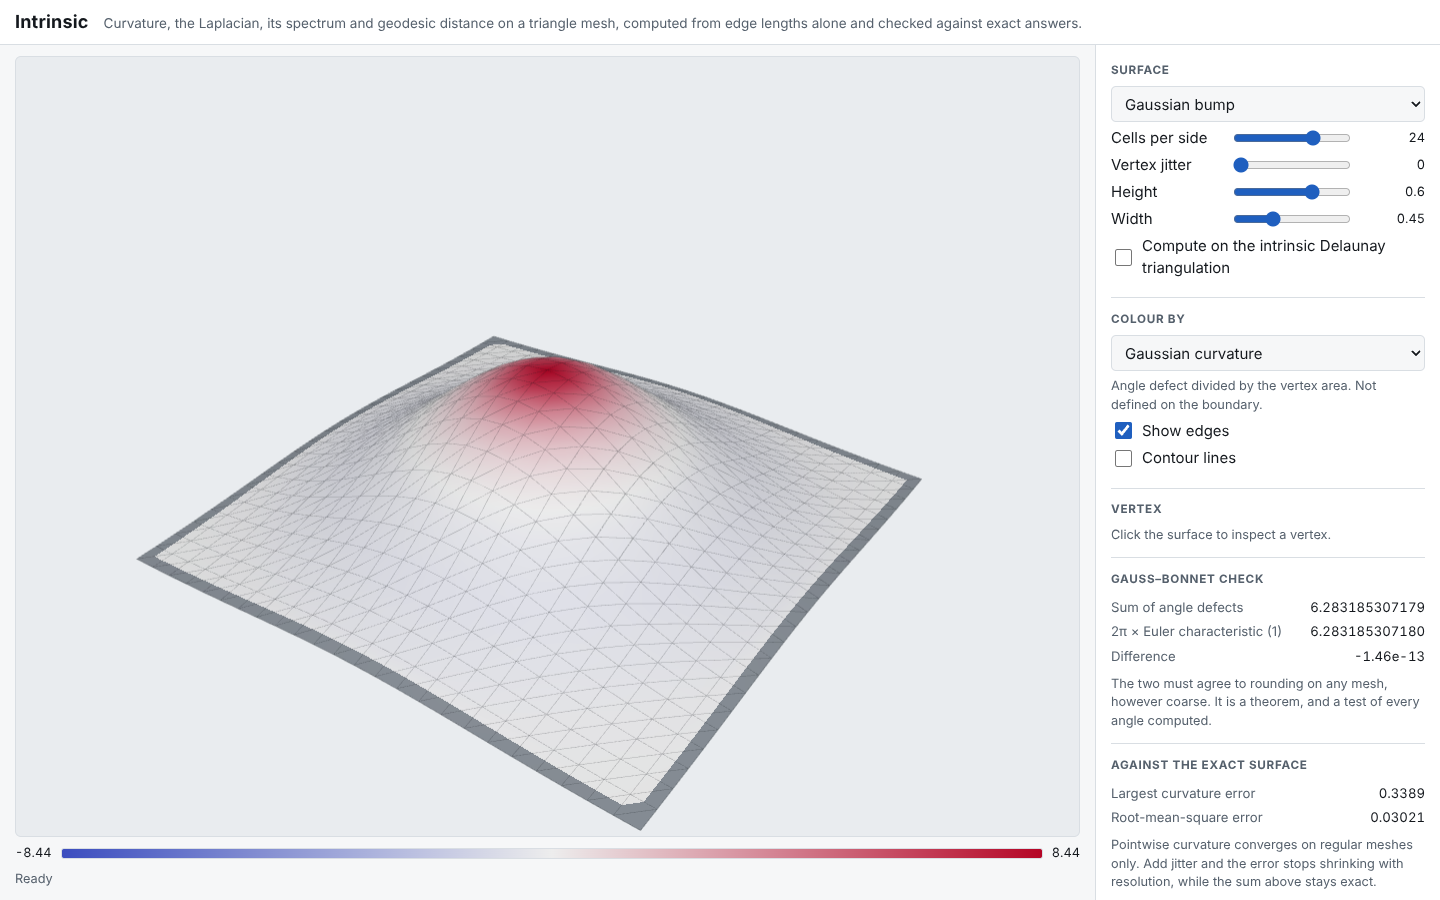
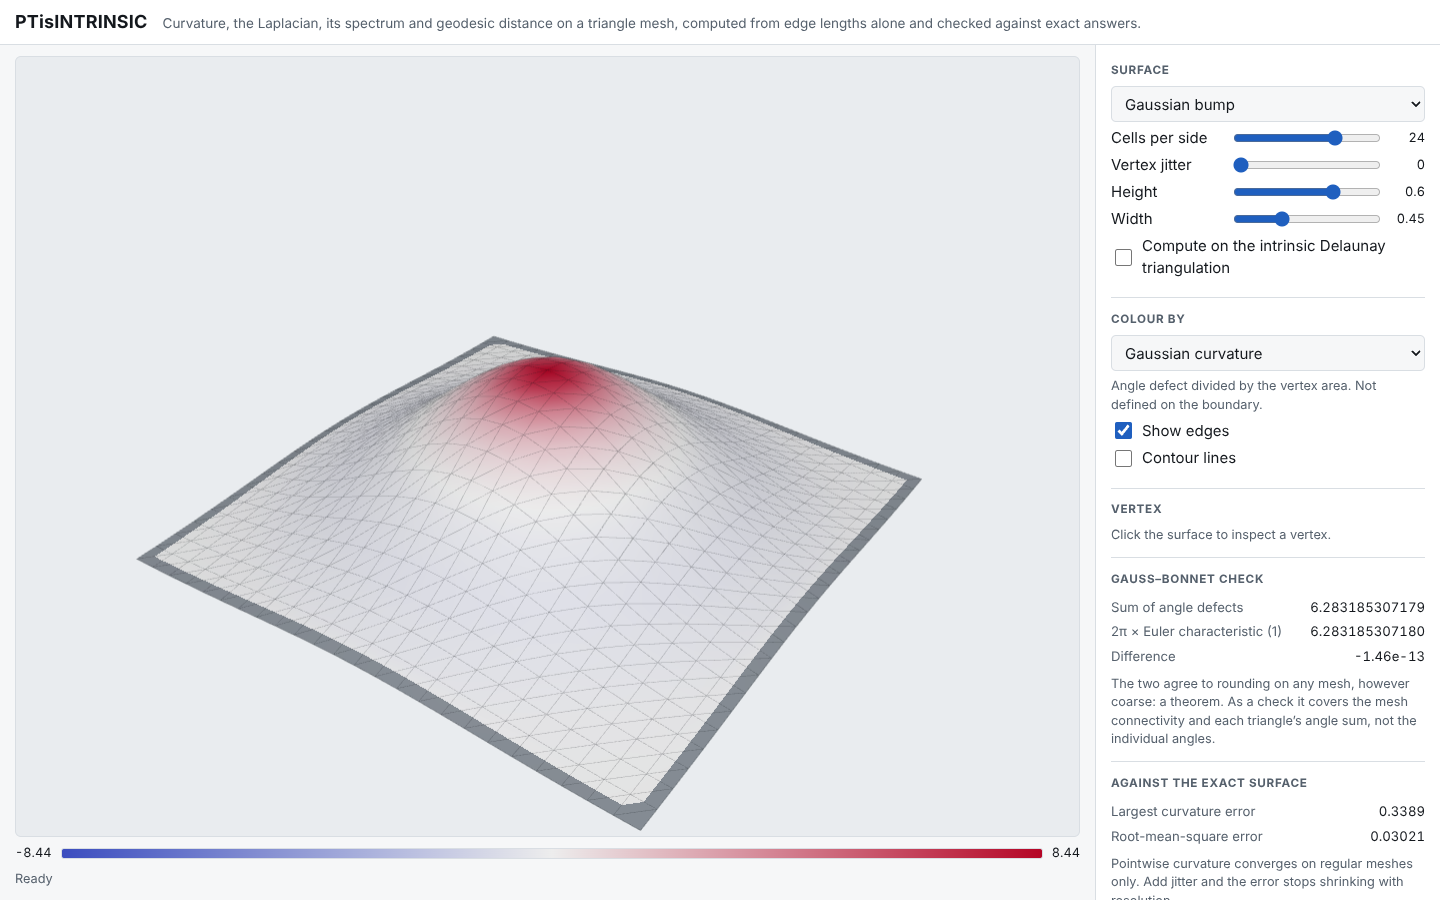
Rename to PTisINTRINSIC and sign as PTisDEV
The project follows the naming of the author's other repositories,
PTis followed by what the program does: intrinsic geometry, computed
from edge lengths alone. Package ptisintrinsic; repository URLs assume
github.com/ptxxdxxd/PTisINTRINSIC.

The author's stamp, a small ASCII skull beside PTisDEV, closes the
README and the app's panel. It lives in src/app/signature.ts; a test
keeps the README copy identical and keeps it out of exported files.
NOTICE names the copyright holder, as the Apache licence expects.

Screenshots regenerated. The product name in docstrings and the export
titles follows the rename; paper titles and the term "intrinsic
geometry" do not change.

Claude-Session: https://claude.ai/code/session_018DZH5v2KzWCQaHqtZ7aifh

diff --git a/src/app/App.tsx b/src/app/App.tsx
@@ -6,6 +6,7 @@ import { FIELDS, contourStep, fieldRange, type FieldId } from './fields.ts';
 import { download, formatNumber } from './format.ts';
 import { PRESETS, type SpectrumData, type SurfaceSpec, type Triangulation } from './model.ts';
 import { Inspector, Readouts, SpectrumPanel, SurfaceControls } from './Panels.tsx';
+import { AUTHOR, STAMP } from './signature.ts';
 import type { Built } from './protocol.ts';
 
 interface Job {
@@ -155,12 +156,12 @@ export function App() {
   };
   // Named after the surface that was built, which lags the controls while a new one computes.
   const shown = result?.job.spec.kind ?? job.spec.kind;
-  const title = `Intrinsic: ${PRESETS[shown].label}, ${built?.summary.vertices ?? 0} vertices`;
+  const title = `PTisINTRINSIC: ${PRESETS[shown].label}, ${built?.summary.vertices ?? 0} vertices`;
 
   return (
     <div className="app">
       <header className="masthead">
-        <h1>Intrinsic</h1>
+        <h1>PTisINTRINSIC</h1>
         <p>
           Curvature, the Laplacian, its spectrum and geodesic distance on a triangle mesh, computed
           from edge lengths alone and checked against exact answers.
@@ -366,6 +367,11 @@ export function App() {
             SciPy and mpmath; the repository says which is checked against what, and how closely.
           </p>
         </section>
+
+        <footer className="signature">
+          <pre aria-hidden="true">{STAMP}</pre>
+          <span className="visually-hidden">Made by {AUTHOR}</span>
+        </footer>
       </aside>
     </div>
   );

diff --git a/scripts/export-fixtures.ts b/scripts/export-fixtures.ts
@@ -1,5 +1,5 @@
 /**
- * Writes oracle/fixtures/*.json: meshes and Intrinsic's results on them, for
+ * Writes oracle/fixtures/*.json: meshes and PTisINTRINSIC's results on them, for
  * the Python suite to recompute with libigl, potpourri3d, scipy and mpmath.
  *
  * Usage: node scripts/export-fixtures.ts
@@ -93,7 +93,7 @@ function spectrumOf(stiffness: CsrMatrix, mass: Float64Array, count: number) {
   };
 }
 
-/** Random symmetric matrices of assorted sizes, with Intrinsic's eigen-decomposition. */
+/** Random symmetric matrices of assorted sizes, with PTisINTRINSIC's eigen-decomposition. */
 function symmetricMatrices() {
   const random = mulberry32(31337);
   return [1, 2, 3, 5, 10, 20, 40, 80, 150].map((n) => {
@@ -306,8 +306,8 @@ for (const [name, s] of [
     { name: 'geodesic_distance', values: new HeatMethod(s.mesh, s.lengths).distance([3]) },
   ];
   const mesh = { positions: s.positions, faces: s.mesh.halfedgeVertex };
-  writeFileSync(join(exportDirectory, `${name}.vtk`), toVtk(mesh, fields, `Intrinsic ${name}`));
-  writeFileSync(join(exportDirectory, `${name}.obj`), toObj(mesh, `Intrinsic ${name}`));
+  writeFileSync(join(exportDirectory, `${name}.vtk`), toVtk(mesh, fields, `PTisINTRINSIC ${name}`));
+  writeFileSync(join(exportDirectory, `${name}.obj`), toObj(mesh, `PTisINTRINSIC ${name}`));
   writeFileSync(join(exportDirectory, `${name}.csv`), toCsv(mesh, fields));
   writeFileSync(
     join(exportDirectory, `${name}.json`),

diff --git a/tests/app/signature.test.ts b/tests/app/signature.test.ts
@@ -1,0 +1,29 @@
+import { readFileSync } from 'node:fs';
+import { describe, expect, it } from 'vitest';
+import { AUTHOR, STAMP } from '../../src/app/signature.ts';
+import { toCsv, toObj, toVtk } from '../../src/core/index.ts';
+
+const root = new URL('../../', import.meta.url);
+const read = (path: string) => readFileSync(new URL(path, root), 'utf8');
+
+describe('signature', () => {
+  it('ends the README with the same stamp the page shows', () => {
+    expect(STAMP).toContain(AUTHOR);
+    expect(read('README.md').endsWith(`\n\`\`\`text\n${STAMP}\n\`\`\`\n`)).toBe(true);
+  });
+
+  it('names the same author in the package and the NOTICE', () => {
+    const pkg = JSON.parse(read('package.json')) as { author: string; name: string };
+    expect(pkg.author).toBe(AUTHOR);
+    expect(read('NOTICE')).toContain(`Copyright 2026 ${AUTHOR}`);
+  });
+
+  it('stays out of exported files, which are data', () => {
+    const mesh = { positions: [0, 0, 0, 1, 0, 0, 0, 1, 0], faces: [0, 1, 2] };
+    const fields = [{ name: 'f', values: [1, 2, 3] }];
+    for (const text of [toVtk(mesh, fields, 'title'), toObj(mesh, 'title'), toCsv(mesh, fields)]) {
+      expect(text).not.toContain(AUTHOR);
+      expect(text).not.toContain('(o o)');
+    }
+  });
+});

diff --git a/e2e/app.spec.ts b/e2e/app.spec.ts
@@ -105,7 +105,7 @@ test('exports download files with the mesh on screen', async ({ page }) => {
   };
   const vtk = await save('VTK');
   expect(
-    vtk.startsWith('# vtk DataFile Version 3.0\nIntrinsic: Gaussian bump, 625 vertices\n'),
+    vtk.startsWith('# vtk DataFile Version 3.0\nPTisINTRINSIC: Gaussian bump, 625 vertices\n'),
   ).toBe(true);
   expect(vtk).toContain(`POINTS ${vertices} double`);
   expect(vtk).toContain('SCALARS gaussian_curvature double 1');
@@ -132,5 +132,7 @@ test('the page fits its window', async ({ page }) => {
   expect(box.y + box.height).toBeLessThanOrEqual(window.height);
   expect(box.width).toBeGreaterThan(0.6 * window.width - 400);
   expect(box.height).toBeGreaterThan(300);
+  // The author's stamp sits at the end of the panel.
+  await expect(page.locator('footer.signature pre')).toHaveText(/PTisDEV/);
   expect(problems).toEqual([]);
 });

diff --git a/src/core/exporters.ts b/src/core/exporters.ts
@@ -65,7 +65,7 @@ function identifier(name: string): string {
 export function toVtk(mesh: ExportMesh, fields: readonly ExportField[], title: string): string {
   const { n, m } = checked(mesh, fields);
   // The title is the file's second line: one line, at most 256 characters.
-  const header = title.replace(/\s+/g, ' ').trim().slice(0, 255) || 'Intrinsic mesh';
+  const header = title.replace(/\s+/g, ' ').trim().slice(0, 255) || 'Untitled mesh';
   const lines = ['# vtk DataFile Version 3.0', header, 'ASCII', 'DATASET UNSTRUCTURED_GRID'];
   lines.push(`POINTS ${n} double`);
   for (let v = 0; v < n; v++) {

diff --git a/tests/core/exporters.test.ts b/tests/core/exporters.test.ts
@@ -86,7 +86,7 @@ describe('export validation', () => {
     const infinite = [{ name: 'd', values: [0, Infinity, 0, 0] }];
     expect(() => toVtk(mesh, infinite, 't')).toThrow(/contains Infinity/);
     expect(() => toCsv(mesh, infinite)).toThrow(/contains Infinity/);
-    expect(toVtk(mesh, [], '  ').split('\n')[1]).toBe('Intrinsic mesh');
+    expect(toVtk(mesh, [], '  ').split('\n')[1]).toBe('Untitled mesh');
     const zeros = [0, 0, 0, 0];
     expect(() => toCsv(mesh, [{ name: ' ', values: zeros }])).toThrow(/empty or used twice/);
     expect(() =>

diff --git a/src/app/signature.ts b/src/app/signature.ts
@@ -1,0 +1,8 @@
+/**
+ * The author's stamp. It goes where a person signs, the page footer and the
+ * README footer, and never into computed output or exported files. A unit
+ * test keeps the README's copy identical to this one.
+ */
+export const AUTHOR = 'PTisDEV';
+
+export const STAMP = [' .-.', `(o o)  ${AUTHOR}`, ' |=|'].join('\n');

diff --git a/src/app/styles.css b/src/app/styles.css
@@ -294,6 +294,21 @@ svg {
   stroke-dasharray: 4 3;
 }
 
+.signature {
+  padding: 1.25rem 0 0.5rem;
+}
+
+.signature pre {
+  margin: 0;
+  font:
+    0.78rem/1.15 ui-monospace,
+    'SFMono-Regular',
+    Menlo,
+    Consolas,
+    monospace;
+  color: var(--muted);
+}
+
 .visually-hidden {
   position: absolute;
   width: 1px;

diff --git a/index.html b/index.html
@@ -8,7 +8,7 @@
       content="Discrete curvature, Laplacians, spectra and geodesic distance on triangle meshes."
     />
     <link rel="icon" type="image/svg+xml" href="./favicon.svg" />
-    <title>Intrinsic</title>
+    <title>PTisINTRINSIC</title>
   </head>
   <body>
     <div id="root"></div>

diff --git a/oracle/tests/test_geodesics.py b/oracle/tests/test_geodesics.py
@@ -1,4 +1,4 @@
-"""Intrinsic's heat-method geodesic distance against scipy and potpourri3d.
+"""PTisINTRINSIC's heat-method geodesic distance against scipy and potpourri3d.
 
 Two references:
 
@@ -11,12 +11,12 @@ Two references:
 geometry-central solves its Poisson problem with L + 1e-6 I instead of the
 singular L (heat_method_distance.cpp). That changes the distance in the fifth
 digit. The re-implementation takes the shift as a parameter: with the shift it
-reproduces potpourri3d, without it Intrinsic. So the difference between
-Intrinsic and potpourri3d is that shift and nothing else.
+reproduces potpourri3d, without it PTisINTRINSIC. So the difference between
+PTisINTRINSIC and potpourri3d is that shift and nothing else.
 
 Measured on 2026-11-13 over 14 cases (10 on embedded meshes), relative to the
-largest distance: Intrinsic against the re-implementation 1.9e-14; potpourri3d
-against the re-implementation with the shift 2.9e-15; Intrinsic against
+largest distance: PTisINTRINSIC against the re-implementation 1.9e-14; potpourri3d
+against the re-implementation with the shift 2.9e-15; PTisINTRINSIC against
 potpourri3d between 8.4e-6 and 2.0e-5. The tolerances below sit above those.
 """
 

diff --git a/oracle/tests/test_spectrum.py b/oracle/tests/test_spectrum.py
@@ -1,4 +1,4 @@
-"""Intrinsic's dense symmetric eigensolver and mesh spectra against LAPACK
+"""PTisINTRINSIC's dense symmetric eigensolver and mesh spectra against LAPACK
 (numpy.linalg.eigh, scipy.linalg.eigh) and ARPACK (scipy.sparse.linalg.eigsh).
 
 Measured on 2026-11-12: random symmetric matrices up to n = 150, eigenvalues
@@ -46,7 +46,7 @@ def test_eigenvectors_are_orthonormal_and_satisfy_the_equation(case: SymmetricCa
 
 
 def pencil(mesh: MeshFixture) -> tuple[sp.csc_matrix, sp.csc_matrix]:
-    """Stiffness and barycentric mass from libigl, assembled independently of Intrinsic."""
+    """Stiffness and barycentric mass from libigl, assembled independently of PTisINTRINSIC."""
     stiffness = -igl.cotmatrix_intrinsic(mesh.face_edge_lengths, mesh.faces)
     mass = igl.massmatrix_intrinsic(
         mesh.face_edge_lengths, mesh.faces, igl.MASSMATRIX_TYPE_BARYCENTRIC

diff --git a/oracle/tests/test_needles.py b/oracle/tests/test_needles.py
@@ -1,6 +1,6 @@
 """Needle-shaped triangles against 80-digit arithmetic.
 
-The inputs are the exact binary64 values Intrinsic used, so the reference is
+The inputs are the exact binary64 values PTisINTRINSIC used, so the reference is
 the exact area and angles of that triangle, not of the decimal numbers it was
 generated from. Kahan's formulas promise a few units of roundoff; the measured
 worst cases on 2026-11-12 were 1.93 (area) and 2.12 (angle) units.
